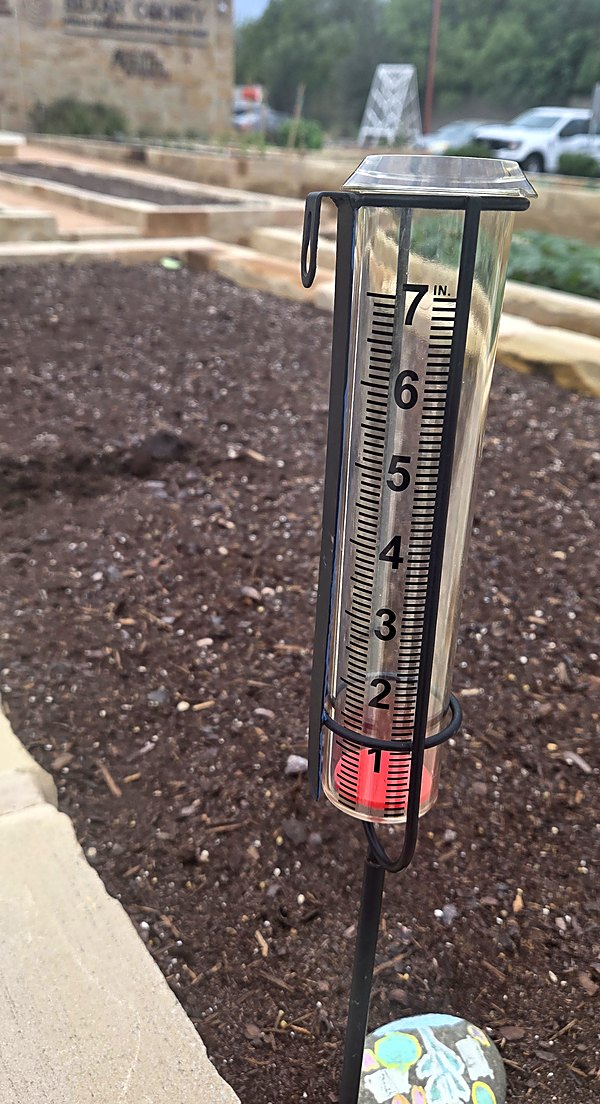
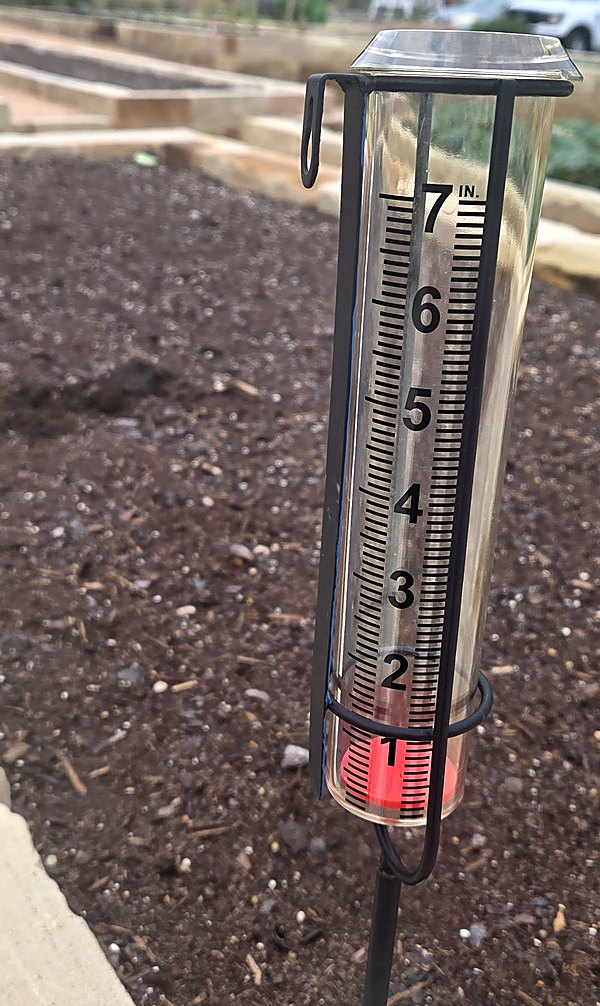
Update Vol. 10 hero, bees, and rain-gauge photos.
Replace the issue HTML, build script, and those three images with the latest copies.

diff --git a/newsletter/vol10/TGR-Garden-Edition-Vol10.html b/newsletter/vol10/TGR-Garden-Edition-Vol10.html
@@ -60,12 +60,12 @@
       <!-- HERO IMAGE -->
   <tr>
     <td style="padding:0;">
-      <img class="full-img" src="https://raw.githubusercontent.com/ThatGardeningRealtor/cockpit/main/newsletter/vol10/vol10-hero.jpg" width="620" height="413" alt="A honeybee in flight over a yellow cosmos bloom, with another bee on the flower" style="display:block;width:100%;max-width:620px;height:auto;">
+      <img class="full-img" src="https://raw.githubusercontent.com/ThatGardeningRealtor/cockpit/main/newsletter/vol10/vol10-hero.jpg" width="620" height="426" alt="A honeybee in flight over a yellow cosmos bloom, with another bee on the flower" style="display:block;width:100%;max-width:620px;height:auto;">
     </td>
   </tr>
   <tr>
     <td bgcolor="#1a2e10" style="padding:8px 32px 0 32px;">
-      <p style="font-size:12px;line-height:1.5;color:#8ab840;margin:0;font-style:italic;text-align:center;">A honeybee coming in for a landing on the cosmos this week.</p>
+      <p style="font-size:12px;line-height:1.5;color:#8ab840;margin:0;font-style:italic;text-align:center;">Caught one mid flight. Fall cosmos are the busiest stop in the yard right now.</p>
     </td>
   </tr>
 
@@ -116,7 +116,7 @@
         </tr>
       </table>
       <p style="font-family:Arial,sans-serif;font-size:20px;font-weight:800;color:#1a2e10;margin:12px 0;line-height:1.25;">Your Lawn Runs on More Than Water</p>
-      <img src="https://raw.githubusercontent.com/ThatGardeningRealtor/cockpit/main/newsletter/vol10/vol10-rain-gauge.jpg" width="300" height="552" alt="A rain gauge in a freshly mulched garden bed after a storm" style="display:block;width:300px;max-width:100%;height:auto;margin:0 auto 6px auto;border-radius:2px;"><p style="font-size:14px;line-height:1.7;color:#888888;margin:0 0 14px 0;font-style:italic;text-align:center;">The rain gauge at Greenies. Rain helps, but water alone won't grow a great lawn.</p><p style="font-size:15px;line-height:1.75;color:#4a4a44;margin:0 0 14px 0;">Dr. Emanuel Chavarria with Texas A&amp;M AgriLife taught our turfgrass class, and the line I keep repeating is this one: grass doesn't eat fertilizer. Its real food is sunlight. Fertilizer is more like vitamins. So the first question for any lawn is how much sun it actually gets.</p><table role="presentation" cellpadding="0" cellspacing="0" border="0" width="100%" style="width:100%;margin:0 0 16px 0;">
+      <img src="https://raw.githubusercontent.com/ThatGardeningRealtor/cockpit/main/newsletter/vol10/vol10-rain-gauge.jpg" width="300" height="503" alt="A dry rain gauge standing in a bare garden bed" style="display:block;width:300px;max-width:100%;height:auto;margin:0 auto 6px auto;border-radius:2px;"><p style="font-size:14px;line-height:1.7;color:#888888;margin:0 0 14px 0;font-style:italic;text-align:center;">Bare beds and a dry rain gauge at Greenies. We need the rain, but water is only part of what feeds a lawn.</p><p style="font-size:15px;line-height:1.75;color:#4a4a44;margin:0 0 14px 0;">Dr. Emanuel Chavarria with Texas A&amp;M AgriLife taught our turfgrass class, and the line I keep repeating is this one: grass doesn't eat fertilizer. Its real food is sunlight. Fertilizer is more like vitamins. So the first question for any lawn is how much sun it actually gets.</p><table role="presentation" cellpadding="0" cellspacing="0" border="0" width="100%" style="width:100%;margin:0 0 16px 0;">
         <tr>
           <td width="4" bgcolor="#8ab840" style="width:4px;font-size:0;line-height:0;">&nbsp;</td>
           <td bgcolor="#f4f8ec" style="padding:14px 16px;">
@@ -233,7 +233,7 @@
         </tr>
       </table>
       <p style="font-family:Arial,sans-serif;font-size:20px;font-weight:800;color:#1a2e10;margin:12px 0;line-height:1.25;">Do the Sun Walk This Weekend</p>
-      <img src="https://raw.githubusercontent.com/ThatGardeningRealtor/cockpit/main/newsletter/vol10/vol10-bees-cosmos.jpg" width="280" height="606" alt="A honeybee working an orange cosmos bloom in full sun" style="display:block;width:280px;max-width:100%;height:auto;margin:0 auto 6px auto;border-radius:2px;"><p style="font-size:14px;line-height:1.7;color:#888888;margin:0 0 14px 0;font-style:italic;text-align:center;">Cosmos love full sun, and so do the bees. Right plant, right place.</p><p style="font-size:15px;line-height:1.75;color:#4a4a44;margin:0 0 14px 0;">Lynn Cox taught our perennials class, and her homework is something anyone can do. On a sunny day, check your yard every hour or so from 10 AM to 5 PM and jot down where the light lands. That's your real map for what to plant where. Do it again in spring, because the sun angle changes and leaves come and go.</p><p style="font-size:15px;line-height:1.75;color:#4a4a44;margin:0 0 14px 0;">Turk's cap is a good example. In full sun it blooms like crazy but droops in the afternoon heat. In shade the leaves look great but the flowers slow down. Lynn's answer: morning sun, afternoon shade.</p><p style="font-size:15px;line-height:1.75;color:#4a4a44;margin:0;">Two more tips from her: group plants that need the same water (that's called hydrozoning), and plan for the mature size. Plants crammed too close end up fighting each other and stay stunted.</p>
+      <img src="https://raw.githubusercontent.com/ThatGardeningRealtor/cockpit/main/newsletter/vol10/vol10-bees-cosmos.jpg" width="320" height="400" alt="A honeybee working an orange cosmos bloom in full sun" style="display:block;width:320px;max-width:100%;height:auto;margin:0 auto 6px auto;border-radius:2px;"><p style="font-size:14px;line-height:1.7;color:#888888;margin:0 0 14px 0;font-style:italic;text-align:center;">Cosmos love full sun, and so do the bees. Right plant, right place.</p><p style="font-size:15px;line-height:1.75;color:#4a4a44;margin:0 0 14px 0;">Lynn Cox taught our perennials class, and her homework is something anyone can do. On a sunny day, check your yard every hour or so from 10 AM to 5 PM and jot down where the light lands. That's your real map for what to plant where. Do it again in spring, because the sun angle changes and leaves come and go.</p><p style="font-size:15px;line-height:1.75;color:#4a4a44;margin:0 0 14px 0;">Turk's cap is a good example. In full sun it blooms like crazy but droops in the afternoon heat. In shade the leaves look great but the flowers slow down. Lynn's answer: morning sun, afternoon shade.</p><p style="font-size:15px;line-height:1.75;color:#4a4a44;margin:0;">Two more tips from her: group plants that need the same water (that's called hydrozoning), and plan for the mature size. Plants crammed too close end up fighting each other and stay stunted.</p>
     </td>
   </tr>
 
@@ -304,7 +304,7 @@
         </tr>
       </table>
       <p style="font-family:Arial,sans-serif;font-size:20px;font-weight:800;color:#1a2e10;margin:12px 0;line-height:1.25;">Copy What Already Works</p>
-      <p style="font-size:15px;line-height:1.75;color:#4a4a44;margin:0;">Next week is Dr. Barron Rector's class on Texas landscapes, and his big idea stuck with me: rip off and duplicate what nature was already doing here. We'll talk about what this land looked like before the lawns, why change is normal, and how to borrow from the prairie in your own yard.</p>
+      <p style="font-size:15px;line-height:1.75;color:#4a4a44;margin:0;">Next week is Dr. Barron Rector's class on Texas landscapes, and his big idea stuck with me: rip off and duplicate what nature was already doing here. We'll talk about what this land looked like before the lawns, why change is normal, and how to borrow from the prairie in your own yard.</p><p style="font-size:15px;line-height:1.75;color:#4a4a44;margin:0;">One last thing before next week: add <strong>christopher_drawdy@mail.expreach.com</strong> to your contacts. That's where the next issue is coming from, and I don't want it stuck in your spam folder.</p>
     </td>
   </tr>
 

diff --git a/newsletter/vol10/build_v10.py b/newsletter/vol10/build_v10.py
@@ -29,12 +29,12 @@ A=lambda href,t:f'<a href="{href}" target="_blank" rel="noopener" {LINK}>{t}</a>
 hero=f'''  <!-- HERO IMAGE -->
   <tr>
     <td style="padding:0;">
-      {img("vol10-hero.jpg","A honeybee in flight over a yellow cosmos bloom, with another bee on the flower",620,413,True)}
+      {img("vol10-hero.jpg","A honeybee in flight over a yellow cosmos bloom, with another bee on the flower",620,426,True)}
     </td>
   </tr>
   <tr>
     <td bgcolor="#1a2e10" style="padding:8px 32px 0 32px;">
-      <p style="font-size:12px;line-height:1.5;color:#8ab840;margin:0;font-style:italic;text-align:center;">A honeybee coming in for a landing on the cosmos this week.</p>
+      <p style="font-size:12px;line-height:1.5;color:#8ab840;margin:0;font-style:italic;text-align:center;">Caught one mid flight. Fall cosmos are the busiest stop in the yard right now.</p>
     </td>
   </tr>
 
@@ -65,8 +65,8 @@ hero=f'''  <!-- HERO IMAGE -->
 
 '''
 turf=section('MASTER GARDENER INTERN','Master Gardener Intern','Your Lawn Runs on More Than Water',
- img("vol10-rain-gauge.jpg","A rain gauge in a freshly mulched garden bed after a storm",300,552)+
- CAP%"The rain gauge at Greenies. Rain helps, but water alone won't grow a great lawn."+
+ img("vol10-rain-gauge.jpg","A dry rain gauge standing in a bare garden bed",300,503)+
+ CAP%"Bare beds and a dry rain gauge at Greenies. We need the rain, but water is only part of what feeds a lawn."+
  P%"Dr. Emanuel Chavarria with Texas A&amp;M AgriLife taught our turfgrass class, and the line I keep repeating is this one: grass doesn't eat fertilizer. Its real food is sunlight. Fertilizer is more like vitamins. So the first question for any lawn is how much sun it actually gets."+
  card([("St. Augustine","Handles some shade better than Bermuda and roots deep. Watch out for cold snaps and chinch bugs. Fun fact: there's no St. Augustine seed for sale, so it always starts from sod or plugs."),
        ("Bermuda","Tough, fast, and handles heat, drought, and foot traffic. It wants more than 8 hours of sun, or it thins out and fades in the shade."),
@@ -125,7 +125,7 @@ re_=section('REAL ESTATE CORNER','Real Estate Corner','What a Yard Tells You Bef
       </table>''')
 
 light=section('RIGHT PLANT RIGHT PLACE','Right Plant, Right Place','Do the Sun Walk This Weekend',
- img("vol10-bees-cosmos.jpg","A honeybee working an orange cosmos bloom in full sun",280,606)+
+ img("vol10-bees-cosmos.jpg","A honeybee working an orange cosmos bloom in full sun",320,400)+
  CAP%"Cosmos love full sun, and so do the bees. Right plant, right place."+
  P%"Lynn Cox taught our perennials class, and her homework is something anyone can do. On a sunny day, check your yard every hour or so from 10 AM to 5 PM and jot down where the light lands. That's your real map for what to plant where. Do it again in spring, because the sun angle changes and leaves come and go."+
  P%"Turk's cap is a good example. In full sun it blooms like crazy but droops in the afternoon heat. In shade the leaves look great but the flowers slow down. Lynn's answer: morning sun, afternoon shade."+
@@ -164,7 +164,8 @@ comm=section('COMMUNITY CORNER','Community Corner',"Thanks for Swapping, and Pum
  PL%f"Mark your calendar: besides Día del Árbol on November 14, the City is also giving away trees at the Farmers and Artisans Holiday Market on <strong>Saturday, November 21, 9 AM to 1 PM</strong>, also at Mission Marquee Plaza. Can't make either one? Send me a photo of what's growing in your yard. The good ones might land in a future issue.")
 
 up=section('COMING UP NEXT WEEK','Coming Up','Copy What Already Works',
- PL%"Next week is Dr. Barron Rector's class on Texas landscapes, and his big idea stuck with me: rip off and duplicate what nature was already doing here. We'll talk about what this land looked like before the lawns, why change is normal, and how to borrow from the prairie in your own yard.")
+ PL%"Next week is Dr. Barron Rector's class on Texas landscapes, and his big idea stuck with me: rip off and duplicate what nature was already doing here. We'll talk about what this land looked like before the lawns, why change is normal, and how to borrow from the prairie in your own yard."+
+ PL%"One last thing before next week: add <strong>christopher_drawdy@mail.expreach.com</strong> to your contacts. That's where the next issue is coming from, and I don't want it stuck in your spam folder.")
 
 heads='''  <!-- HEADS UP: NEW SENDER -->
   <tr>
